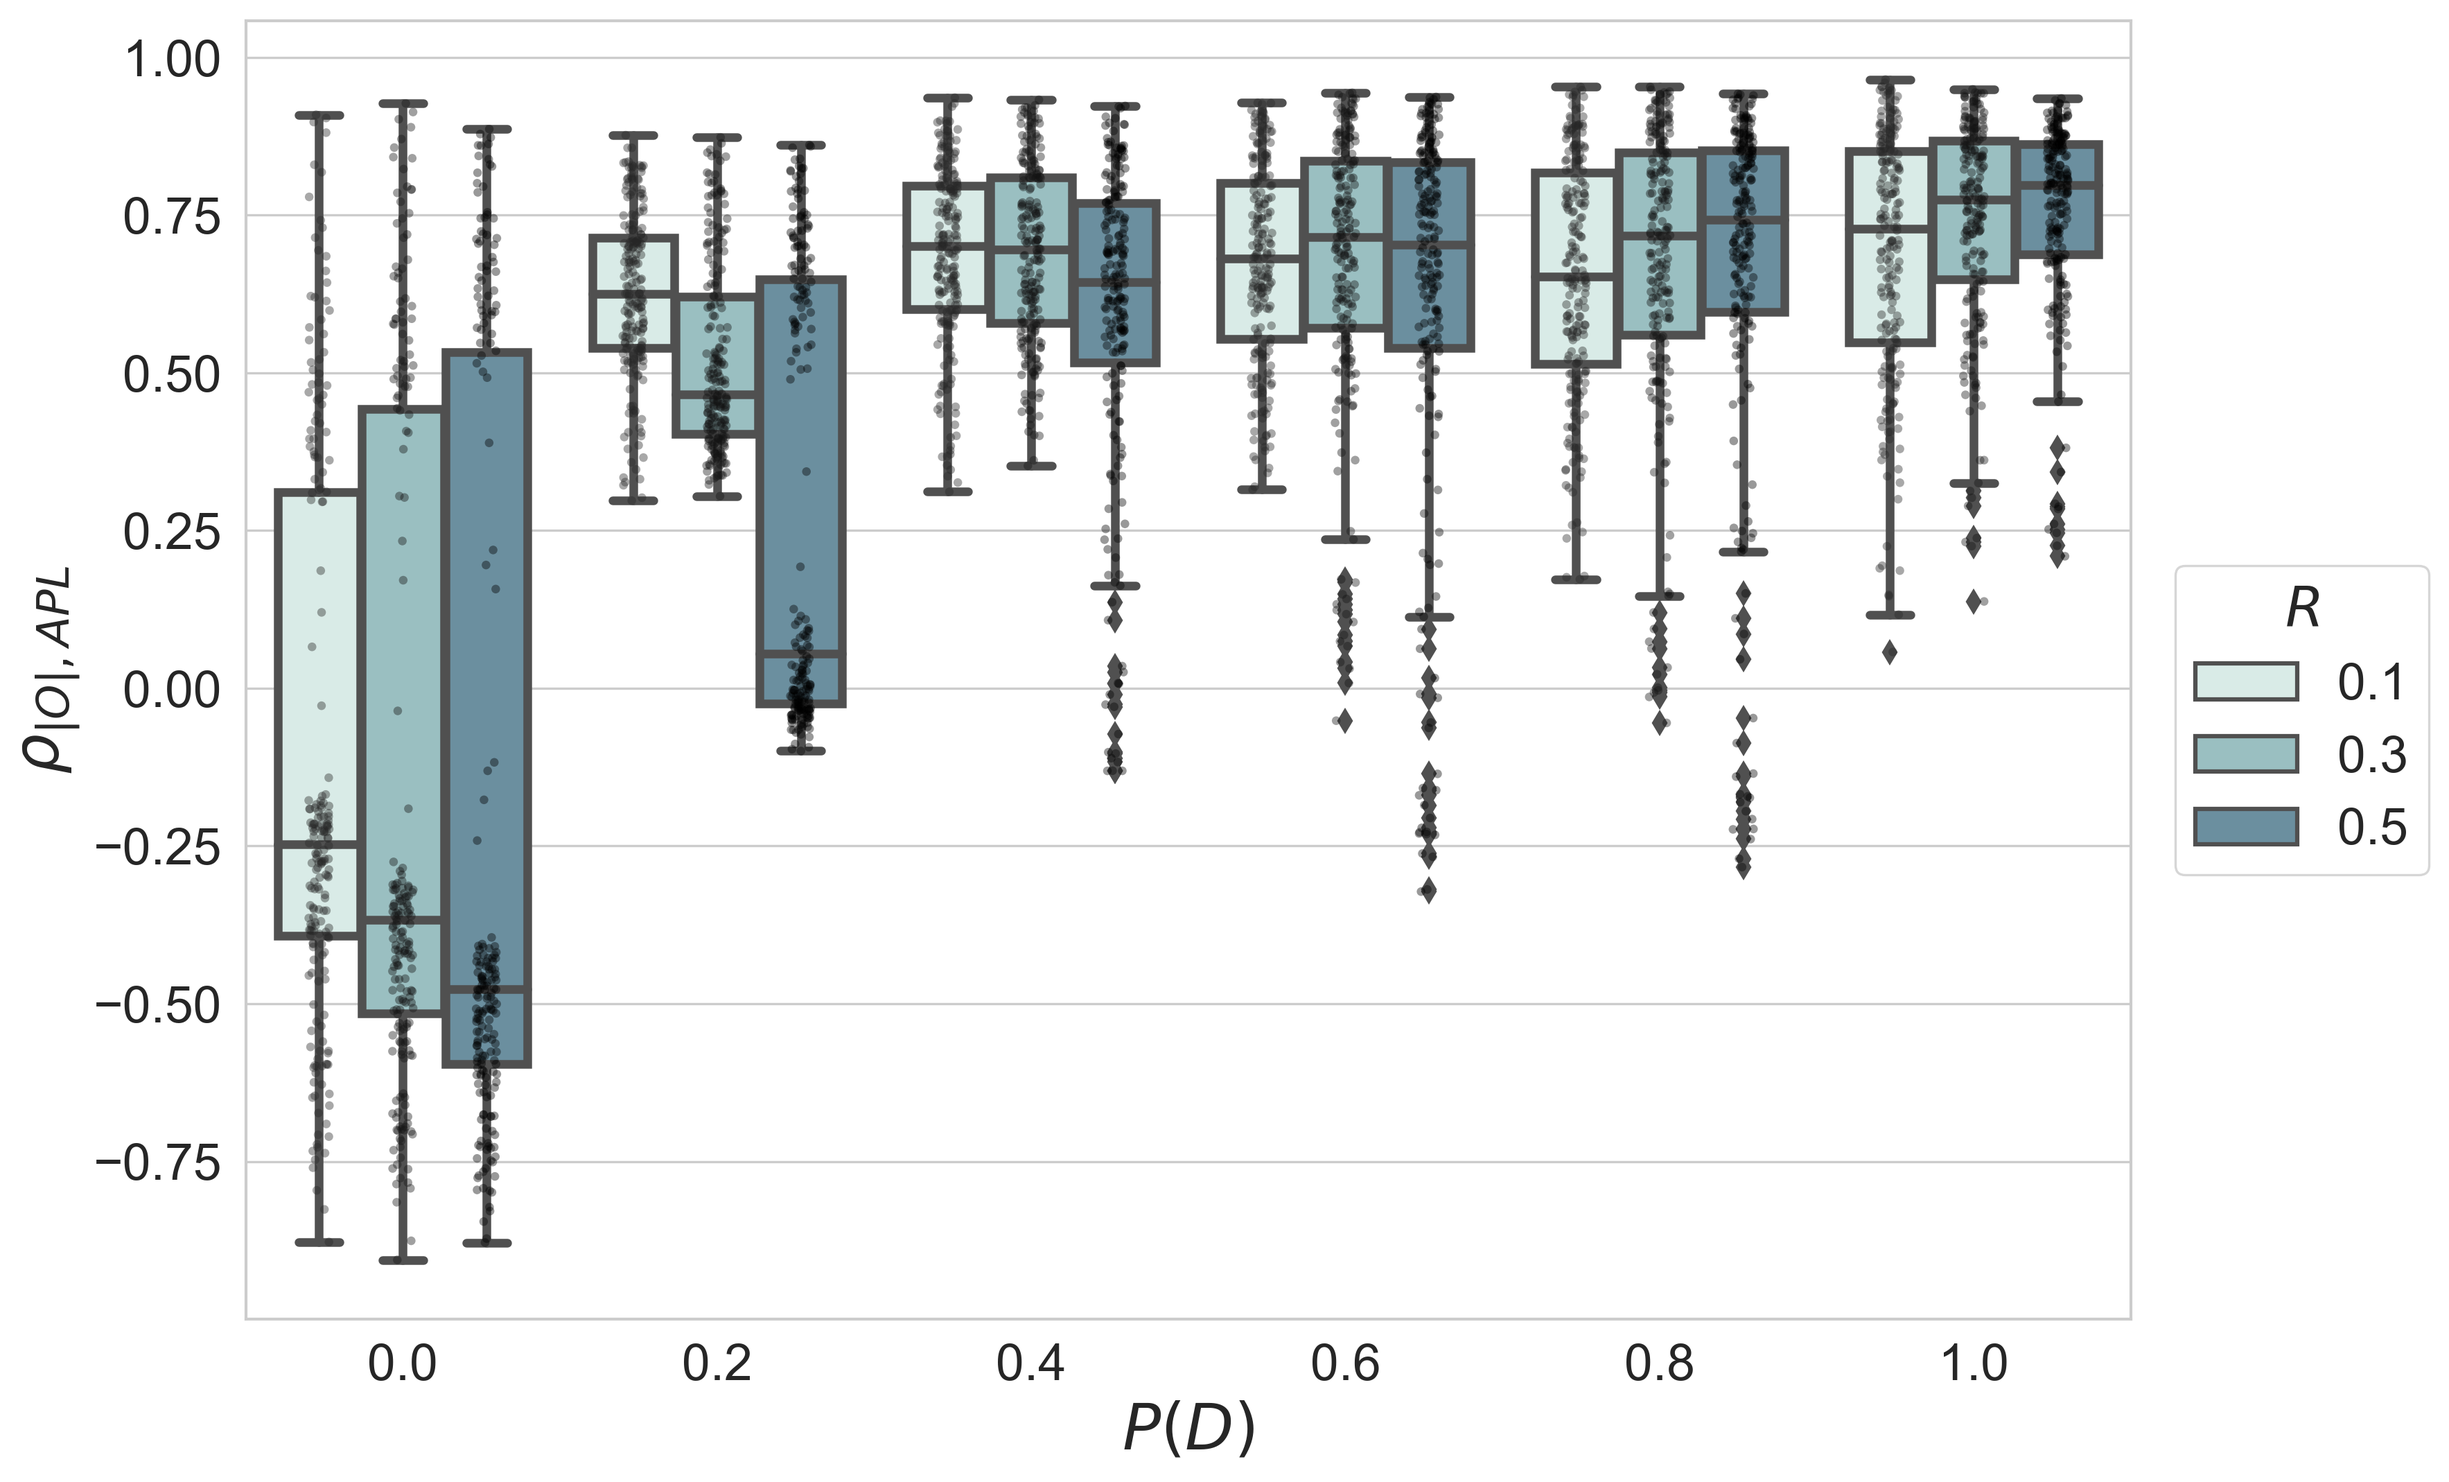
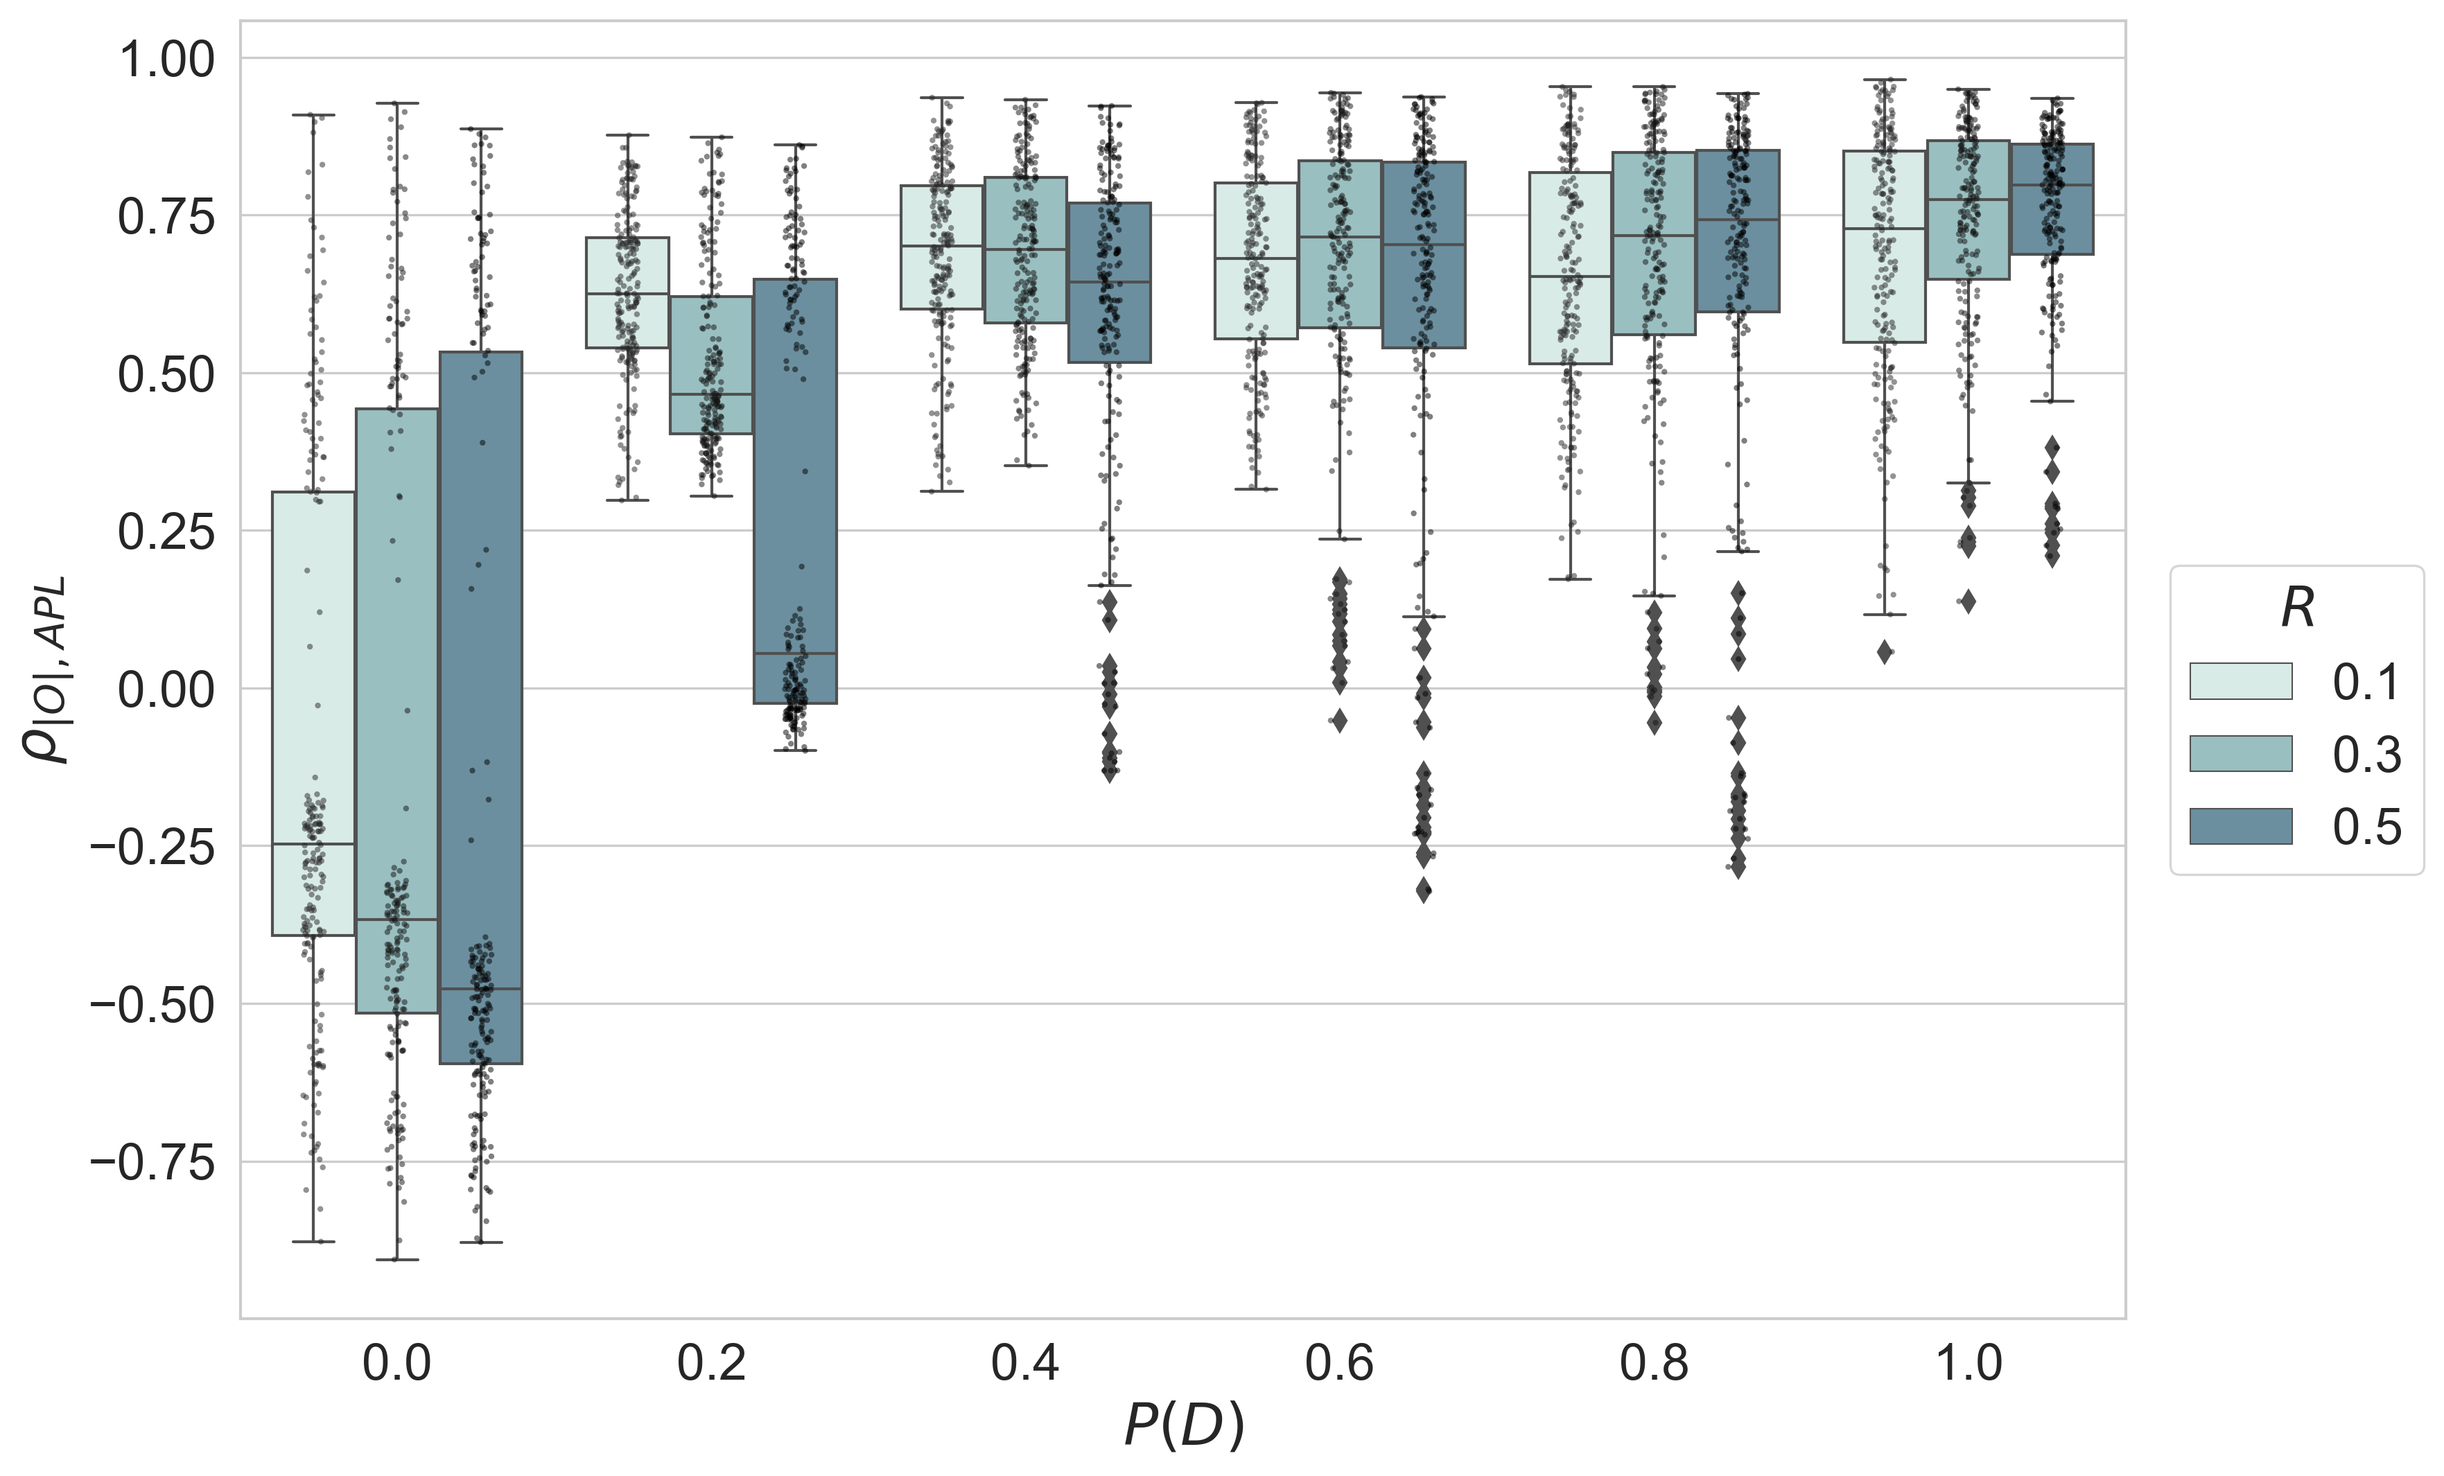
prettify plots

diff --git a/LaDoN/ladon/load_files_over_time.py b/LaDoN/ladon/load_files_over_time.py
@@ -285,6 +285,17 @@ g.savefig(
     "plots/overall/Correlation_Average_Path_Length_Absolute_Opinions.png", dpi=300
 )
 
+sns.set_context(
+    "paper",
+    rc={
+        "figure.figsize": (11.7, 8.27),
+        "font.size": 16,
+        "axes.titlesize": 22,
+        "axes.labelsize": 20,
+    },
+    font_scale=2,
+)
+
 g = sns.boxplot(
     data=correlations,
     x="tie_dissolution",
@@ -292,7 +303,7 @@ g = sns.boxplot(
     hue="randomness",
     dodge=True,
     palette=sns.cubehelix_palette(5, rot=-0.25, light=0.9),
-    linewidth=3,
+    linewidth=1,
 )  # .set(ylabel=r"$\rho_{|O|, APL}$", xlabel=r"$P(D)$")
 sns.stripplot(
     data=correlations,
@@ -301,8 +312,8 @@ sns.stripplot(
     hue="randomness",
     dodge=True,
     color="black",
-    alpha=0.4,
-    size=3,
+    alpha=0.5,
+    size=2,
     # palette=sns.cubehelix_palette(8, rot=-0.25, light=0.9),
 ).set(ylabel=r"$\rho_{|O|, APL}$", xlabel=r"$P(D)$")
 
